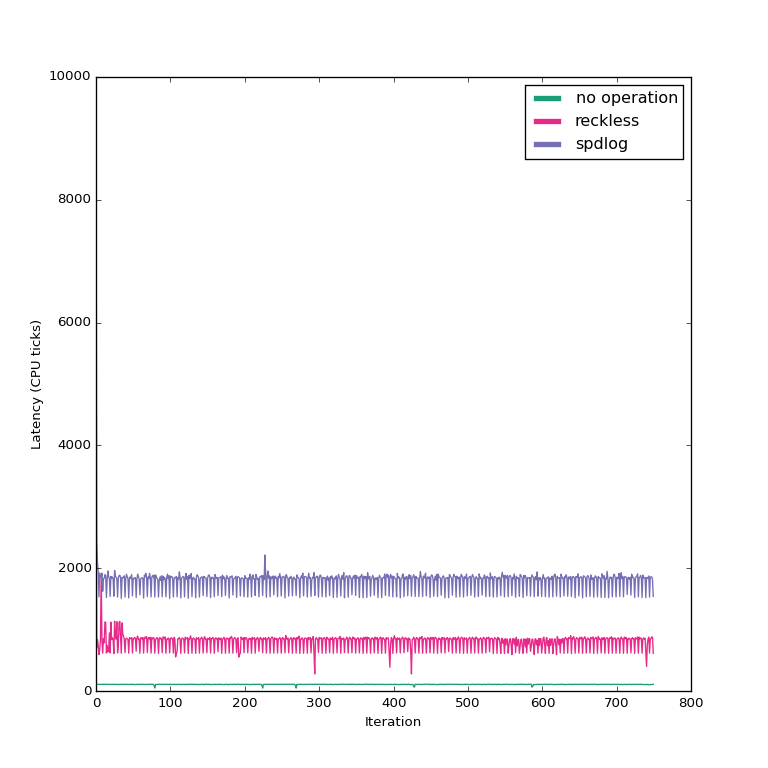
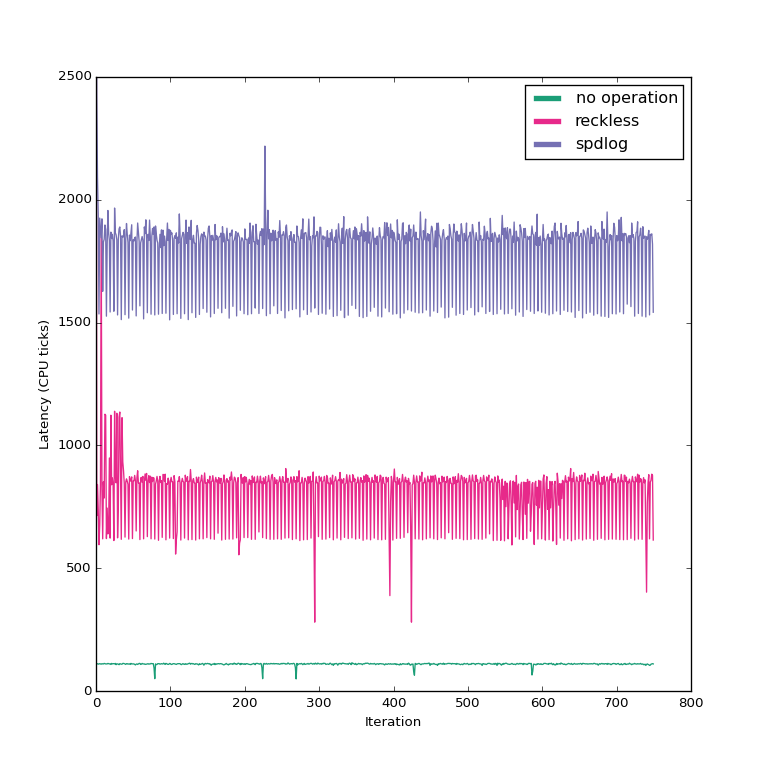
wip

Changed region(s): [[0.0625, 0.25, 0.875, 0.9062], [0.0312, 0.4062, 0.0938, 0.5938], [0.0625, 0.0938, 0.125, 0.125]]

diff --git a/benchmarks/plot.py b/benchmarks/plot.py
@@ -95,7 +95,7 @@ def parse_ranges(s):
     return result
         
 def main():
-    opts, args = gnu_getopt(argv[1:], 'l:t:c:w:h', ['libs=', 'tests=', 'threads=', 'file=', 'help'])
+    opts, args = gnu_getopt(argv[1:], 'l:t:c:w:h', ['libs=', 'tests=', 'threads=', 'file=', 'top=', 'help'])
     libs = None
     tests = None
     threads = None
@@ -104,6 +104,7 @@ def main():
     width = 858
     height = 858
     show_help = len(args) != 0
+    top = None
 
     for option, value in opts:
         if option in ('-l', '--libs'):
@@ -118,7 +119,8 @@ def main():
             window = int(value)
         elif option == '--file':
             filename = value
-            
+        elif option == '--top':
+            top = int(value)
 
     if show_help:
         stderr.write(
@@ -128,6 +130,7 @@ def main():
             '-l,--libs     LIBS  comma-separated list of libs to plot\n'
             '-c,--threads  LIBS  thread-counts to include in a comma-separated list (e.g. 1-2,4)\n'
             '-w,--window   SIZE  Size of moving-average window\n'
+            '--top         TOP   Top y coordinate for chart\n'
             '-h,--help        show this help\n'
             'Available libraries: {}\n'
             'Available tests: {}\n'.format(
@@ -141,10 +144,10 @@ def main():
     if threads is None:
         threads = list(range(1, 5))
 
-    plot(libs, tests, threads, window, filename, width, height)
+    plot(libs, tests, threads, window, top, filename, width, height)
     return 0
 
-def plot(libs, tests, threads_list, window, plot_filename, width, height, dpi=96):
+def plot(libs, tests, threads_list, window, top, plot_filename, width, height, dpi=96):
     import matplotlib
     matplotlib.rc('font', size=10)
     import matplotlib.pyplot as plt
@@ -159,6 +162,7 @@ def plot(libs, tests, threads_list, window, plot_filename, width, height, dpi=96
             window = get_default_window(test)
         if window != 1:
             data = average2(window, data);
+        print("%s: max: %s" % (filename, max(data)))
         ax.plot(data, '-', label=name, color=color, linewidth=1)
         
     for test in tests:
@@ -179,6 +183,9 @@ def plot(libs, tests, threads_list, window, plot_filename, width, height, dpi=96
             else:
                 filename = "results/%s_%s.txt" % (lib, test)
                 single_plot(filename, test, ', '.join(base_name), window, color)
+
+    if top is not None:
+        ax.set_ylim(ymax=top)
     
     legend = ax.legend()
     # set the linewidth of each legend object

diff --git a/doc/performance.md b/doc/performance.md
@@ -70,7 +70,7 @@ the asynchronous queue is over 50 MiB in size, in order to fit all log messages
 without having to flush. The measurement does not include log setup and
 teardown.  In other words, it only measures time for pushing log entries on the
 asynchronous queue and not the time for flushing all those messages to disk.
-*This is fine if*:
+*This is fine*, if:
 
 * You can afford a large memory enough buffer that it will never run out of
   space (but keep in mind that if you make it too large, disk swapping can
@@ -107,8 +107,8 @@ The specifications of the test machine are as follows:
   SpeedStep is turned off.
 * Western Digital Black WD7501AALS 750GB mechanical disk.
 * 8 GiB RAM.
-* gcc 4.8.4
-* Linux kernel 3.14.14
+* gcc 4.8.4.
+* Linux kernel 3.14.14.
 
 For the scenarios that measure individual call timings, measurements were made
 according to the article “[How to Benchmark Code Execution Times on Intel IA-32
@@ -116,10 +116,12 @@ and IA-64 Instruction Set
 Architectures](http://www.intel.com/content/www/us/en/intelligent-systems/embedded-systems-training/ia-32-ia-64-benchmark-code-execution-paper.html)”
 by Gabriele Paoloni. To avoid problems with unsynchronized time-stamp counters
 across CPU cores, each measured thread is forced to run on a specific CPU core
-by setting the thread affinity. I have applied a moving average filter to the
-performance charts because noise would otherwise make it difficult to compare
-the lines. The size of the moving average window varies depending on the
-scnario; I made it just large enough to make the chart comprehensible.
+by setting the thread affinity.
+
+I have applied a moving average filter to the performance charts because noise
+would otherwise make it difficult to compare the lines. The size of the moving
+average window varies depending on the scenario. I made it just large enough to
+make the chart comprehensible.
 
 For tests that only measure total execution time, `std::chrono::steady_clock`
 is used.
